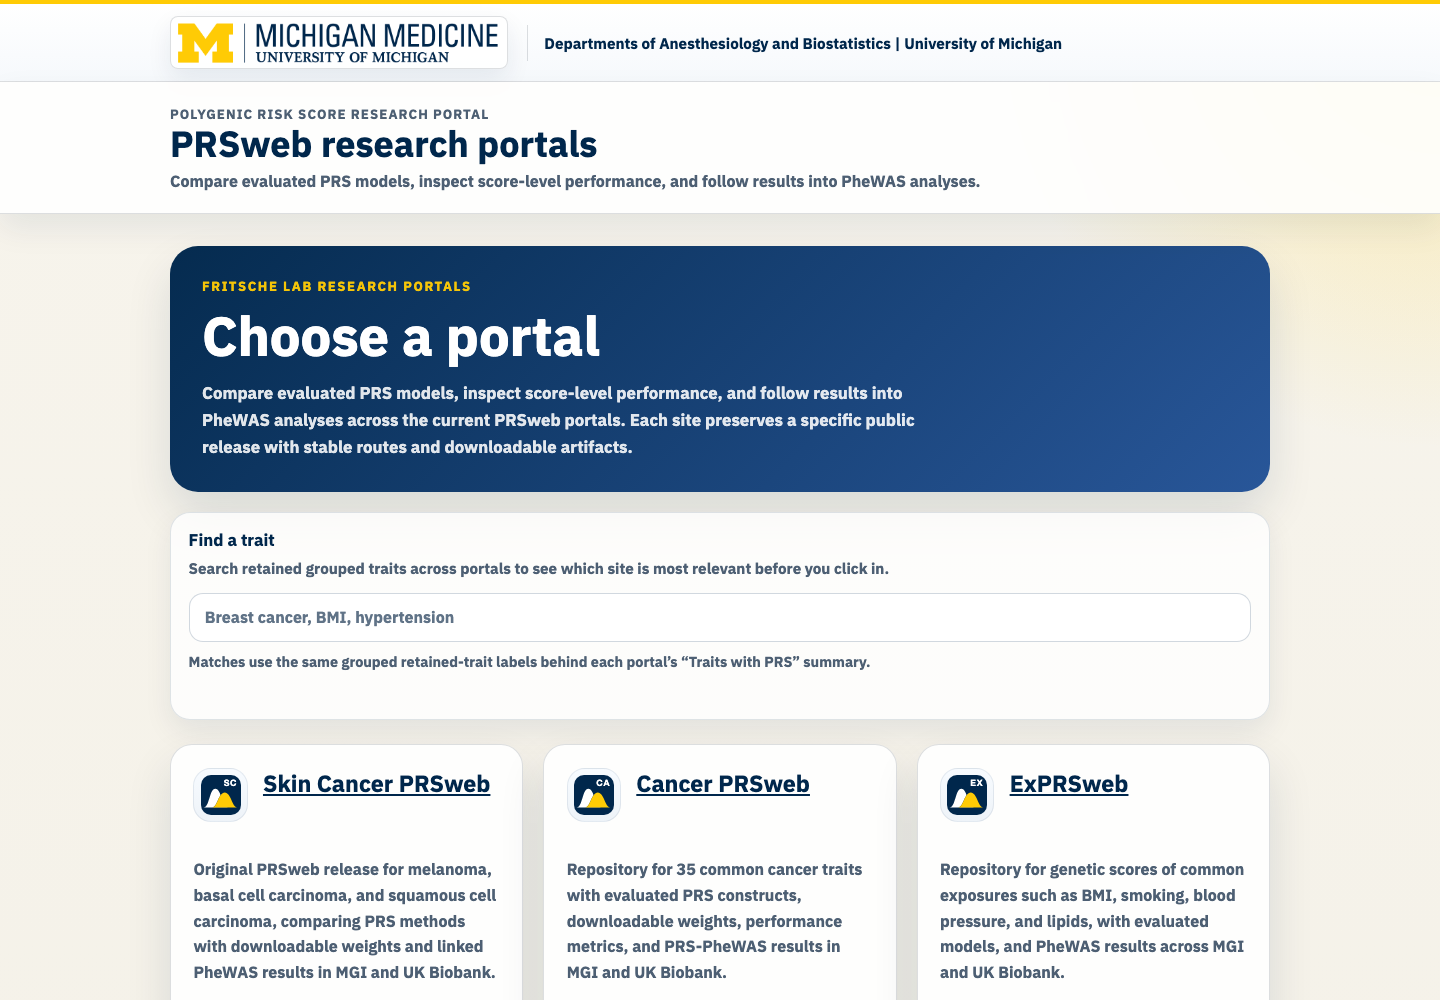
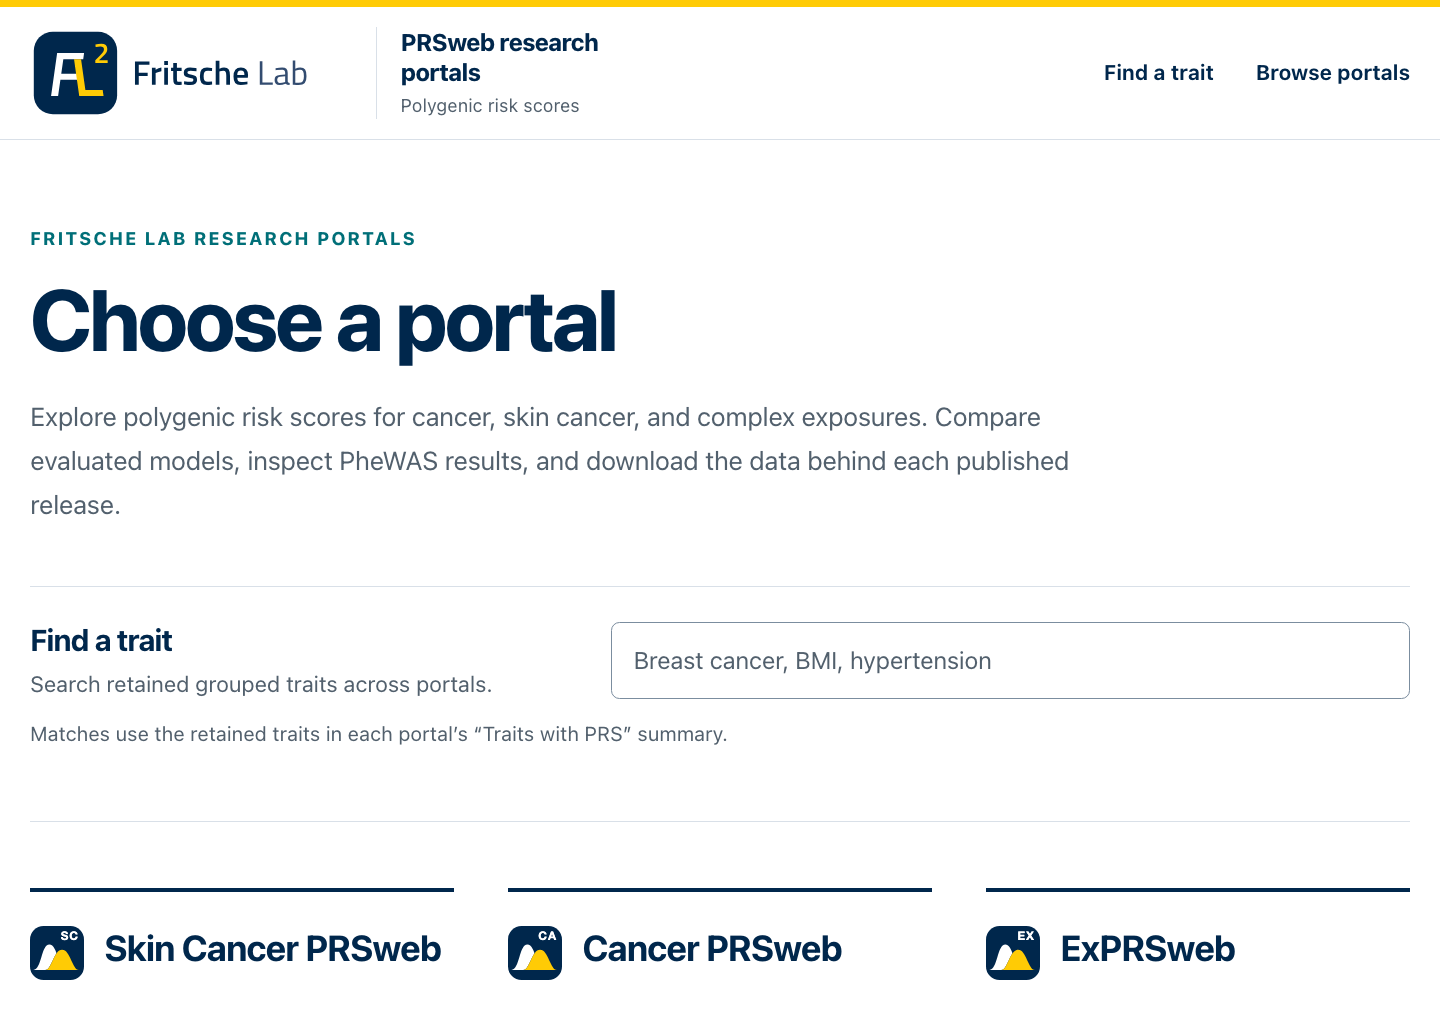
Refresh PRSweb screenshot and resource pages
Show the updated PRSweb interface at 150% zoom and clarify trait search and preserved releases. Keep image proportions and alumni card alignment consistent.

diff --git a/tools/prsweb/index.html b/tools/prsweb/index.html
@@ -29,7 +29,7 @@
 <link rel="icon" href="/assets/images/fritsche-lab-favicon.svg" type="image/svg+xml">
 <link rel="alternate" type="application/atom+xml" title="Fritsche Lab updates" href="/feed.xml">
 <script src="/assets/js/theme.js"></script>
-<link rel="stylesheet" href="/assets/css/site.css?v=1788899461">
+<link rel="stylesheet" href="/assets/css/site.css?v=1788989557">
 
 <script type="application/ld+json">{  "@context": "https://schema.org",    "@type": "CreativeWork",  "name": "PRSweb Research Portals",  "description": "Polygenic risk score evaluations from MGI and UK Biobank, with three archived PRSweb releases.",  "url": "https://fritschelab.org/tools/prsweb/"  }</script>
 
@@ -114,11 +114,11 @@
   <a class="editorial-figure__link" href="https://csg.sph.umich.edu/larsf/" aria-label="Open PRSweb">
   
   
-  <img src="/assets/images/resources/prsweb-portal.png" alt="The public PRSweb landing page with trait search and cards for Skin Cancer PRSweb, Cancer PRSweb, and ExPRSweb." width="1440" height="1000" loading="lazy">
+  <img src="/assets/images/resources/prsweb-portal.png" alt="The PRSweb landing page with Fritsche Lab branding, cross-portal trait search, and links to Skin Cancer PRSweb, Cancer PRSweb, and ExPRSweb." width="1440" height="1020" loading="lazy">
   
   
   </a>
-  <figcaption>The public PRSweb landing page, captured September 2026.</figcaption>
+  <figcaption>The updated PRSweb landing page, captured September 9, 2026.</figcaption>
 </figure>
 
       
@@ -146,7 +146,9 @@
     
 
     <div class="detail-body prose">
-      <h2 id="what-prsweb-includes">What PRSweb includes</h2>
+      <p>Search traits across the three portals, then open a score page to inspect performance, linked phenome-wide association results, and downloads.</p>
+
+<h2 id="what-prsweb-includes">What PRSweb includes</h2>
 
 <ul>
   <li>Score definitions, comparisons, and performance results.</li>
@@ -163,7 +165,7 @@
   <li><a href="https://csg.sph.umich.edu/larsf/skincancerprsweb/">Skin Cancer PRSweb</a> is the original June 2019 catalog of 20 scores across four traits. <a href="/tools/prsweb/skin-cancer/">Skin cancer release details</a>.</li>
 </ul>
 
-<p>The archived releases remain unchanged, so their pages and downloads continue to match the corresponding papers.</p>
+<p>The updated portal interfaces serve the preserved analyses and downloads associated with each paper.</p>
 
 <h2 id="data-behind-the-portal">Data behind the portal</h2>
 
@@ -252,6 +254,6 @@ portal files.</p>
   </div>
 </footer>
 
-    <script src="/assets/js/site.js?v=1788899461" defer></script>
+    <script src="/assets/js/site.js?v=1788989557" defer></script>
   </body>
 </html>

diff --git a/tools/index.html b/tools/index.html
@@ -29,7 +29,7 @@
 <link rel="icon" href="/assets/images/fritsche-lab-favicon.svg" type="image/svg+xml">
 <link rel="alternate" type="application/atom+xml" title="Fritsche Lab updates" href="/feed.xml">
 <script src="/assets/js/theme.js"></script>
-<link rel="stylesheet" href="/assets/css/site.css?v=1788899461">
+<link rel="stylesheet" href="/assets/css/site.css?v=1788989557">
 
 <script type="application/ld+json">{  "@context": "https://schema.org",    "@type": "WebPage",  "name": "Tools & Data",  "description": "Research portals, open software, practical guides, and archived PRSweb releases from the Fritsche Lab.",  "url": "https://fritschelab.org/tools/",  "isPartOf": {"@type": "WebSite", "name": "Fritsche Lab", "url": "https://fritschelab.org"}  }</script>
 
@@ -101,7 +101,7 @@
     </div>
     <h2 id="flagship-prsweb-portals">PRSweb Research Portals</h2>
     <p>Compare published polygenic risk scores evaluated in the Michigan Genomics Initiative (MGI) and UK Biobank, and explore phenome-wide associations and downloadable files.</p>
-    <p class="catalog-feature__use"><strong>Useful for:</strong> comparing candidate scores, examining performance and phenome-wide results, and finding release-specific downloads.</p>
+    <p class="catalog-feature__use"><strong>Useful for:</strong> finding traits across portals, comparing scores, examining performance and phenome-wide results, and downloading release files.</p>
     
 <div class="resource-access">
   <div class="button-row">
@@ -118,11 +118,11 @@
   <a class="editorial-figure__link" href="https://csg.sph.umich.edu/larsf/" aria-label="Open PRSweb">
   
   
-  <img src="/assets/images/resources/prsweb-portal.png" alt="The public PRSweb landing page with trait search and cards for Skin Cancer PRSweb, Cancer PRSweb, and ExPRSweb." width="1440" height="1000" loading="lazy" />
+  <img src="/assets/images/resources/prsweb-portal.png" alt="The PRSweb landing page with Fritsche Lab branding, cross-portal trait search, and links to Skin Cancer PRSweb, Cancer PRSweb, and ExPRSweb." width="1440" height="1020" loading="lazy" />
   
   
   </a>
-  <figcaption>The public PRSweb landing page, captured September 2026.</figcaption>
+  <figcaption>The updated PRSweb landing page, captured September 9, 2026.</figcaption>
 </figure>
 
   </div>
@@ -370,6 +370,6 @@
   </div>
 </footer>
 
-    <script src="/assets/js/site.js?v=1788899461" defer></script>
+    <script src="/assets/js/site.js?v=1788989557" defer></script>
   </body>
 </html>

diff --git a/index.html b/index.html
@@ -29,7 +29,7 @@
 <link rel="icon" href="/assets/images/fritsche-lab-favicon.svg" type="image/svg+xml">
 <link rel="alternate" type="application/atom+xml" title="Fritsche Lab updates" href="/feed.xml">
 <script src="/assets/js/theme.js"></script>
-<link rel="stylesheet" href="/assets/css/site.css?v=1788899461">
+<link rel="stylesheet" href="/assets/css/site.css?v=1788989557">
 
 <script type="application/ld+json">{  "@context": "https://schema.org",    "@type": "ResearchOrganization",  "name": "Fritsche Lab",  "url": "https://fritschelab.org/",  "logo": "https://fritschelab.org/assets/images/fritsche-lab-logo.svg",  "description": "The Fritsche Lab studies how genomic and multimodal prediction models perform across biobanks, health systems, and patient populations.",  "email": "mailto:larsf+lab@umich.edu",  "parentOrganization": {"@type": "CollegeOrUniversity", "name": "University of Michigan", "url": "https://umich.edu/"},  "sameAs": ["https://github.com/FritscheLab"]  }</script>
 
@@ -293,7 +293,7 @@
 
     </div>
     <div class="feature-panel__visual">
-      <img src="/assets/images/resources/prsweb-portal.png" alt="The public PRSweb landing page with trait search and cards for the three archived releases." width="1440" height="1000" loading="lazy" />
+      <img src="/assets/images/resources/prsweb-portal.png" alt="The PRSweb landing page with Fritsche Lab branding, cross-portal trait search, and links to Skin Cancer PRSweb, Cancer PRSweb, and ExPRSweb." width="1440" height="1020" loading="lazy" />
     </div>
   </div>
 </section>
@@ -600,6 +600,6 @@
   </div>
 </footer>
 
-    <script src="/assets/js/site.js?v=1788899461" defer></script>
+    <script src="/assets/js/site.js?v=1788989557" defer></script>
   </body>
 </html>

diff --git a/people/lars-fritsche/index.html b/people/lars-fritsche/index.html
@@ -29,7 +29,7 @@
 <link rel="icon" href="/assets/images/fritsche-lab-favicon.svg" type="image/svg+xml">
 <link rel="alternate" type="application/atom+xml" title="Fritsche Lab updates" href="/feed.xml">
 <script src="/assets/js/theme.js"></script>
-<link rel="stylesheet" href="/assets/css/site.css?v=1788899461">
+<link rel="stylesheet" href="/assets/css/site.css?v=1788989557">
 
 <script type="application/ld+json">{  "@context": "https://schema.org",    "@type": "Person",  "name": "Lars Fritsche",  "description": "Lars Fritsche is a statistical geneticist and biostatistician who leads the Fritsche Lab at the University of Michigan.",  "jobTitle": "Lab Head",  "url": "https://fritschelab.org/people/lars-fritsche/",  "affiliation": {"@type": "CollegeOrUniversity", "name": "University of Michigan", "url": "https://umich.edu/"},  "image": "https://fritschelab.org/assets/images/people/lars-fritsche.webp",  "sameAs": ["https://medschool.umich.edu/profile/4980/lars-fritsche", "https://sph.umich.edu/faculty-profiles/fritsche-lars.html", "https://orcid.org/0000-0002-2110-1690", "https://scholar.google.com/citations?user=K8kwj8cAAAAJ", "https://www.webofscience.com/wos/author/record/AAF-9387-2019", "https://www.scopus.com/authid/detail.uri?authorId=9233771300"]  }</script>
 
@@ -205,6 +205,6 @@
   </div>
 </footer>
 
-    <script src="/assets/js/site.js?v=1788899461" defer></script>
+    <script src="/assets/js/site.js?v=1788989557" defer></script>
   </body>
 </html>

diff --git a/people/shivalika-pathania/index.html b/people/shivalika-pathania/index.html
@@ -29,7 +29,7 @@
 <link rel="icon" href="/assets/images/fritsche-lab-favicon.svg" type="image/svg+xml">
 <link rel="alternate" type="application/atom+xml" title="Fritsche Lab updates" href="/feed.xml">
 <script src="/assets/js/theme.js"></script>
-<link rel="stylesheet" href="/assets/css/site.css?v=1788899461">
+<link rel="stylesheet" href="/assets/css/site.css?v=1788989557">
 
 <script type="application/ld+json">{  "@context": "https://schema.org",    "@type": "Person",  "name": "Shivalika Pathania",  "description": "Shivalika Pathania applies statistical genetics and integrates genomic and electronic health record data to study complex disease risk.",  "jobTitle": "Postdoctoral Research Fellow",  "url": "https://fritschelab.org/people/shivalika-pathania/",  "affiliation": {"@type": "CollegeOrUniversity", "name": "University of Michigan", "url": "https://umich.edu/"},  "image": "https://fritschelab.org/assets/images/people/shivalika-pathania.webp",  "sameAs": ["https://orcid.org/0000-0001-5601-9569", "https://scholar.google.com/citations?user=UoaknzEAAAAJ&hl=en", "https://github.com/ShivalikaP", "https://www.linkedin.com/in/shivalika-pathania-95214465"]  }</script>
 
@@ -209,6 +209,6 @@
   </div>
 </footer>
 
-    <script src="/assets/js/site.js?v=1788899461" defer></script>
+    <script src="/assets/js/site.js?v=1788989557" defer></script>
   </body>
 </html>

diff --git a/collaborations/index.html b/collaborations/index.html
@@ -29,7 +29,7 @@
 <link rel="icon" href="/assets/images/fritsche-lab-favicon.svg" type="image/svg+xml">
 <link rel="alternate" type="application/atom+xml" title="Fritsche Lab updates" href="/feed.xml">
 <script src="/assets/js/theme.js"></script>
-<link rel="stylesheet" href="/assets/css/site.css?v=1788899461">
+<link rel="stylesheet" href="/assets/css/site.css?v=1788989557">
 
 <script type="application/ld+json">{  "@context": "https://schema.org",    "@type": "WebPage",  "name": "Research & Collaboration Network",  "description": "Explore collaborators, keywords, and research directions in an interactive map of the Fritsche Lab publication record.",  "url": "https://fritschelab.org/collaborations/",  "isPartOf": {"@type": "WebSite", "name": "Fritsche Lab", "url": "https://fritschelab.org"}  }</script>
 
@@ -251,7 +251,7 @@
 
 <script src="/assets/vendor/cytoscape/cytoscape.min.js" defer=""></script>
 
-<script src="/assets/js/collaboration-network.js?v=1788899461" defer=""></script>
+<script src="/assets/js/collaboration-network.js?v=1788989557" defer=""></script>
 
 
   </div>
@@ -286,6 +286,6 @@
   </div>
 </footer>
 
-    <script src="/assets/js/site.js?v=1788899461" defer></script>
+    <script src="/assets/js/site.js?v=1788989557" defer></script>
   </body>
 </html>

diff --git a/people/ryan-welch/index.html b/people/ryan-welch/index.html
@@ -29,7 +29,7 @@
 <link rel="icon" href="/assets/images/fritsche-lab-favicon.svg" type="image/svg+xml">
 <link rel="alternate" type="application/atom+xml" title="Fritsche Lab updates" href="/feed.xml">
 <script src="/assets/js/theme.js"></script>
-<link rel="stylesheet" href="/assets/css/site.css?v=1788899461">
+<link rel="stylesheet" href="/assets/css/site.css?v=1788989557">
 
 <script type="application/ld+json">{  "@context": "https://schema.org",    "@type": "Person",  "name": "Ryan Welch",  "description": "Ryan Welch’s research spans statistical genetics, bioinformatics, computational genomics, pharmacogenomics, and research software development.",  "jobTitle": "Application Programmer/Analyst Lead",  "url": "https://fritschelab.org/people/ryan-welch/",  "affiliation": {"@type": "CollegeOrUniversity", "name": "University of Michigan", "url": "https://umich.edu/"},  "image": "https://fritschelab.org/assets/images/people/ryan-welch.webp",  "sameAs": ["https://github.com/welchr", "https://orcid.org/0000-0001-6378-1295"]  }</script>
 
@@ -201,6 +201,6 @@
   </div>
 </footer>
 
-    <script src="/assets/js/site.js?v=1788899461" defer></script>
+    <script src="/assets/js/site.js?v=1788989557" defer></script>
   </body>
 </html>

diff --git a/people/tai-yang/index.html b/people/tai-yang/index.html
@@ -29,7 +29,7 @@
 <link rel="icon" href="/assets/images/fritsche-lab-favicon.svg" type="image/svg+xml">
 <link rel="alternate" type="application/atom+xml" title="Fritsche Lab updates" href="/feed.xml">
 <script src="/assets/js/theme.js"></script>
-<link rel="stylesheet" href="/assets/css/site.css?v=1788899461">
+<link rel="stylesheet" href="/assets/css/site.css?v=1788989557">
 
 <script type="application/ld+json">{  "@context": "https://schema.org",    "@type": "Person",  "name": "Tai Yang",  "description": "Tai Yang generates polygenic scores using published GWAS summary statistics and benchmarks them for mental health, sleep, and behavioral traits. He also develops distribution-valued regression methods.",  "jobTitle": "Graduate Student Research Assistant (GSRA) and PhD Candidate",  "url": "https://fritschelab.org/people/tai-yang/",  "affiliation": {"@type": "CollegeOrUniversity", "name": "University of Michigan", "url": "https://umich.edu/"},  "image": "https://fritschelab.org/assets/images/people/tai-yang.webp"  }</script>
 
@@ -213,6 +213,6 @@
   </div>
 </footer>
 
-    <script src="/assets/js/site.js?v=1788899461" defer></script>
+    <script src="/assets/js/site.js?v=1788989557" defer></script>
   </body>
 </html>

diff --git a/people/sarah-fazal/index.html b/people/sarah-fazal/index.html
@@ -29,7 +29,7 @@
 <link rel="icon" href="/assets/images/fritsche-lab-favicon.svg" type="image/svg+xml">
 <link rel="alternate" type="application/atom+xml" title="Fritsche Lab updates" href="/feed.xml">
 <script src="/assets/js/theme.js"></script>
-<link rel="stylesheet" href="/assets/css/site.css?v=1788899461">
+<link rel="stylesheet" href="/assets/css/site.css?v=1788989557">
 
 <script type="application/ld+json">{  "@context": "https://schema.org",    "@type": "Person",  "name": "Sarah Fazal",  "description": "Sarah Fazal studies chronic overlapping pain conditions and nociplastic pain, with a focus on patient heterogeneity and biological mechanisms.",  "jobTitle": "Postdoctoral Research Fellow",  "url": "https://fritschelab.org/people/sarah-fazal/",  "affiliation": {"@type": "CollegeOrUniversity", "name": "University of Michigan", "url": "https://umich.edu/"},  "image": "https://fritschelab.org/assets/images/people/sarah-fazal.webp",  "sameAs": ["https://orcid.org/0000-0001-9064-6152"]  }</script>
 
@@ -197,6 +197,6 @@
   </div>
 </footer>
 
-    <script src="/assets/js/site.js?v=1788899461" defer></script>
+    <script src="/assets/js/site.js?v=1788989557" defer></script>
   </body>
 </html>

diff --git a/news/amd-blindness-prediction-funding-2018/index.html b/news/amd-blindness-prediction-funding-2018/index.html
@@ -29,7 +29,7 @@
 <link rel="icon" href="/assets/images/fritsche-lab-favicon.svg" type="image/svg+xml">
 <link rel="alternate" type="application/atom+xml" title="Fritsche Lab updates" href="/feed.xml">
 <script src="/assets/js/theme.js"></script>
-<link rel="stylesheet" href="/assets/css/site.css?v=1788899461">
+<link rel="stylesheet" href="/assets/css/site.css?v=1788989557">
 
 <script type="application/ld+json">{  "@context": "https://schema.org",    "@type": "NewsArticle",  "headline": "Eye expert leads research to better predict blindness in patients",  "description": "An international collaboration combines clinical measures, retinal imaging, genetics, and machine learning to study progression of age-related macular degeneration.",  "datePublished": "2018-07-12T00:00:00-04:00",  "mainEntityOfPage": "https://fritschelab.org/news/amd-blindness-prediction-funding-2018/",  "publisher": {"@type": "ResearchOrganization", "name": "Fritsche Lab", "url": "https://fritschelab.org"}  }</script>
 
@@ -193,6 +193,6 @@
   </div>
 </footer>
 
-    <script src="/assets/js/site.js?v=1788899461" defer></script>
+    <script src="/assets/js/site.js?v=1788989557" defer></script>
   </body>
 </html>

diff --git a/news/cancer-immunotherapy-outcomes-2024/index.html b/news/cancer-immunotherapy-outcomes-2024/index.html
@@ -29,7 +29,7 @@
 <link rel="icon" href="/assets/images/fritsche-lab-favicon.svg" type="image/svg+xml">
 <link rel="alternate" type="application/atom+xml" title="Fritsche Lab updates" href="/feed.xml">
 <script src="/assets/js/theme.js"></script>
-<link rel="stylesheet" href="/assets/css/site.css?v=1788899461">
+<link rel="stylesheet" href="/assets/css/site.css?v=1788989557">
 
 <script type="application/ld+json">{  "@context": "https://schema.org",    "@type": "NewsArticle",  "headline": "Comparing cancer immunotherapy outcomes in Black and white patients",  "description": "A study using Veterans Health Administration records compared survival and immune-related adverse events in Black and white patients receiving cancer immunotherapy.",  "datePublished": "2024-12-04T00:00:00-05:00",  "mainEntityOfPage": "https://fritschelab.org/news/cancer-immunotherapy-outcomes-2024/",  "publisher": {"@type": "ResearchOrganization", "name": "Fritsche Lab", "url": "https://fritschelab.org"}  }</script>
 
@@ -201,6 +201,6 @@
   </div>
 </footer>
 
-    <script src="/assets/js/site.js?v=1788899461" defer></script>
+    <script src="/assets/js/site.js?v=1788989557" defer></script>
   </body>
 </html>

diff --git a/news/compass-mental-health-care-2026/index.html b/news/compass-mental-health-care-2026/index.html
@@ -29,7 +29,7 @@
 <link rel="icon" href="/assets/images/fritsche-lab-favicon.svg" type="image/svg+xml">
 <link rel="alternate" type="application/atom+xml" title="Fritsche Lab updates" href="/feed.xml">
 <script src="/assets/js/theme.js"></script>
-<link rel="stylesheet" href="/assets/css/site.css?v=1788899461">
+<link rel="stylesheet" href="/assets/css/site.css?v=1788989557">
 
 <script type="application/ld+json">{  "@context": "https://schema.org",    "@type": "NewsArticle",  "headline": "U-M researchers aim to shorten the path to effective mental health care",  "description": "COMPASS participants contribute repeated reports, genetic samples, and health record data to study why mental health treatment responses differ.",  "datePublished": "2026-06-08T00:00:00-04:00",  "mainEntityOfPage": "https://fritschelab.org/news/compass-mental-health-care-2026/",  "publisher": {"@type": "ResearchOrganization", "name": "Fritsche Lab", "url": "https://fritschelab.org"}  }</script>
 
@@ -185,6 +185,6 @@
   </div>
 </footer>
 
-    <script src="/assets/js/site.js?v=1788899461" defer></script>
+    <script src="/assets/js/site.js?v=1788989557" defer></script>
   </body>
 </html>
